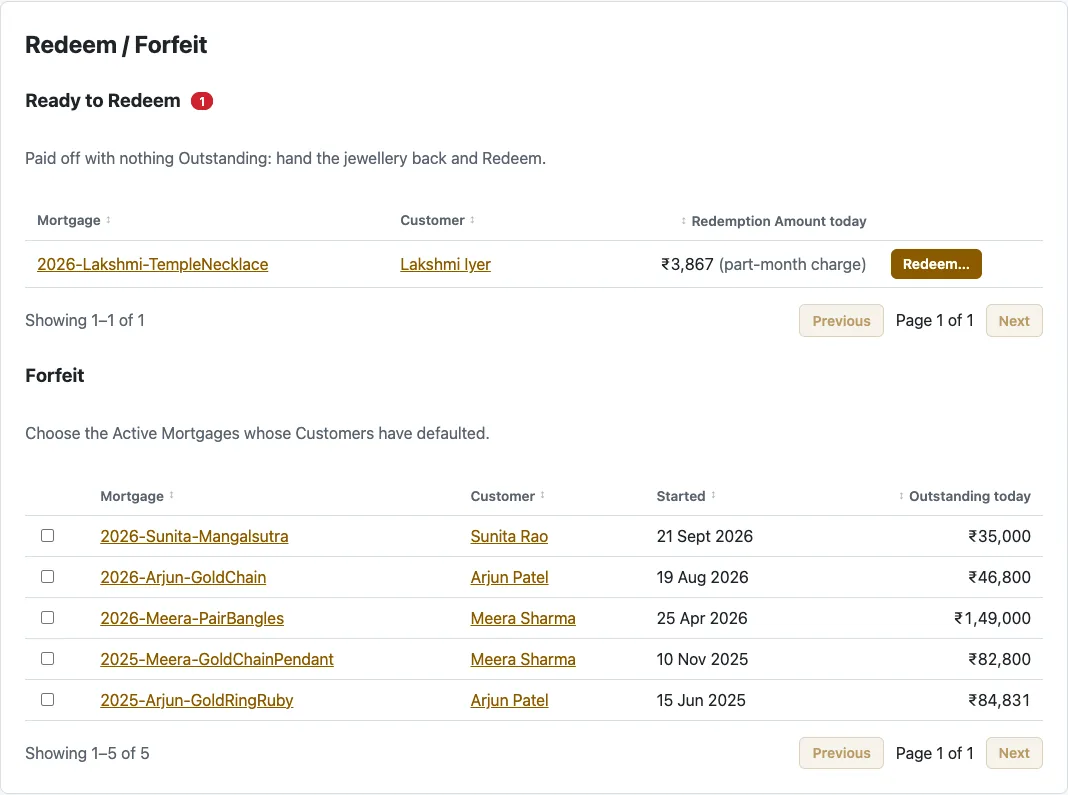
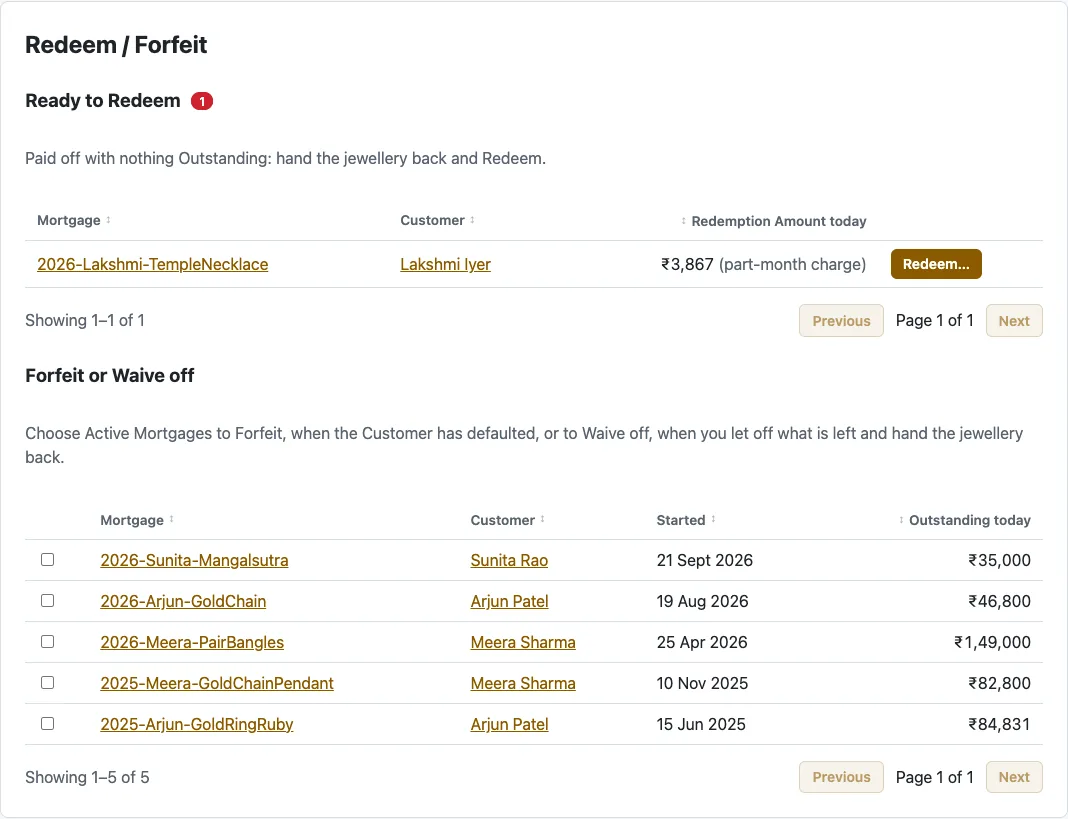
GitHub Pages: fresh screenshots for Waive off
The Gold Chain Story's sample book, rebuilt with the day pinned to 19 Oct 2026 and one
new Customer, Farida Khan, whose nose ring is Waived off ₹180 short. New screenshots:
the Waive off panel, the Waived off closure, Waive off for the chosen on Redeem /
Forfeit, and the Dashboard's Closed in October. The Redeem / Forfeit scene is re-taken
for its new Forfeit or Waive off section; every other screenshot is unchanged.

diff --git a/docs/story.html b/docs/story.html
@@ -207,6 +207,7 @@ footer { margin-top: 3rem; font-size: 0.82rem; color: var(--muted); display: gri
     <div class="person"><b>Lakshmi Iyer</b><span>a temple necklace, paid in full this week</span></div>
     <div class="person"><b>Kavita Joshi</b><span>a gold coin, Redeemed on 5 October</span></div>
     <div class="person"><b>Imran Qureshi</b><span>a pair of earrings, Forfeited on 10 October</span></div>
+    <div class="person"><b>Farida Khan</b><span>a gold nose ring, ₹180 short, Waived off on 16 October</span></div>
     <div class="person"><b>Sunita Rao</b><span>a mangalsutra, accruing in two days</span></div>
   </div>
   <p class="sample">Everyone here is invented. The screenshots come from the app running on sample data, so every figure is what the app itself works out. Click a numbered marker or a step to see where it is on the screen; ← and → step through a scene.</p>
@@ -543,10 +544,10 @@ footer { margin-top: 3rem; font-size: 0.82rem; color: var(--muted); display: gri
 <section class="chapter" id="endings" aria-labelledby="endings-h">
   <div class="chapter-head"><div class="eyebrow">Chapter 8</div><h2 id="endings-h">How pledges end</h2></div>
   <div class="prose">
-    <p>Every pledge ends one of three ways. It is paid in full and the jewellery goes home (Redeemed). Or the Customer pays nearly all of it, the Lender lets off the small balance left, and the jewellery goes home all the same (Waived off). Or the Customer defaults and the Lender keeps or sells it (Forfeited). This month has one Redemption and one Forfeiture, and one more waiting.</p>
+    <p>Every pledge ends one of three ways. It is paid in full and the jewellery goes home (Redeemed). Or the Customer pays nearly all of it, the Lender lets off the small balance left, and the jewellery goes home all the same (Waived off). Or the Customer defaults and the Lender keeps or sells it (Forfeited). This month has one of each, and one more waiting.</p>
   </div>
   <figure class="scene" data-shot="closures">
-    <div class="frame"><div class="canvas"><img src="shots/closures.webp" width="1068" height="795" alt="Redeem / Forfeit: Lakshmi's temple necklace Ready to Redeem with a ₹3,867 part-month charge; Active Mortgages that can be Forfeited." loading="lazy"></div></div>
+    <div class="frame"><div class="canvas"><img src="shots/closures.webp" width="1068" height="819" alt="Redeem / Forfeit: Lakshmi's temple necklace Ready to Redeem with a ₹3,867 part-month charge; Active Mortgages that can be Forfeited or Waived off." loading="lazy"></div></div>
     <div class="beats-wrap">
       <ol class="beats">
         <li data-spot="ready"><button class="beat"><span><b>Lakshmi paid in full this week.</b> Her necklace waits to go back; Redeeming today adds a ₹3,867 part-month charge as the final Payment. Below, Mortgages still owing can be ticked and closed together, choosing to Forfeit them or Waive them off.</span></button></li>
@@ -564,8 +565,16 @@ footer { margin-top: 3rem; font-size: 0.82rem; color: var(--muted); display: gri
     </div>
   </figure>
   <div class="duo">
+    <figure class="still"><img src="shots/waive.webp" width="1018" height="1497" alt="Waiving off Farida's nose ring on 16 Oct 2026: Redemption Amount ₹30,680, ₹30,500 received, ₹180 waived off, with the reason and the Preview." loading="lazy"><figcaption>Farida pays every month and comes in ₹180 short. On her Mortgage, <b>Waive off…</b> takes the ₹30,500 she brought as the final Payment and shows the ₹180 let off as it is typed, then the Preview. Paying the whole ₹30,680 would be refused here: that is a Redemption.</figcaption></figure>
+    <figure class="still"><img src="shots/closures-waive.webp" width="1068" height="928" alt="Redeem / Forfeit: one Mortgage ticked under Forfeit or Waive off, with Waive off chosen, ₹46,500 received of ₹46,800 and ₹300 waived off." loading="lazy"><figcaption>Several at once: on Redeem / Forfeit, tick Mortgages and choose <b>Waive off</b> instead of Forfeit, with what each brought in. (Shown here, not saved.)</figcaption></figure>
+  </div>
+  <div class="duo">
     <figure class="still"><img src="shots/redeemed.webp" width="1018" height="108" alt="Kavita's gold coin, Redeemed on 5 Oct 2026 for ₹54,567, with a link to the final Payment's Receipt." loading="lazy"><figcaption>Kavita's coin: Redeemed on 5 October for ₹54,567, with the final Payment's Receipt.</figcaption></figure>
     <figure class="still"><img src="shots/forfeited.webp" width="1018" height="246" alt="Imran's earrings, Forfeited on 10 Oct 2026: Redemption Amount ₹62,800, recovered ₹52,000, a loss of ₹10,800." loading="lazy"><figcaption>Imran's earrings: Forfeited on 10 October. Owed ₹62,800, sold for ₹52,000: a loss of ₹10,800, which the Dashboard counts for the month.</figcaption></figure>
+  </div>
+  <div class="duo">
+    <figure class="still"><img src="shots/waived.webp" width="1018" height="197" alt="Farida's nose ring, Waived off on 16 Oct 2026: Redemption Amount ₹30,680, final Payment ₹30,500, ₹180 waived off, and the reason." loading="lazy"><figcaption>Farida's nose ring: Waived off on 16 October. ₹30,500 paid, ₹180 let off, and the jewellery went home. Her Receipt shows nothing still owed.</figcaption></figure>
+    <figure class="still"><img src="shots/dashboard-closed.webp" width="1018" height="165" alt="Dashboard, Closed in Oct 2026: 1 Redeemed; 1 Waived off, ₹180 let off; 1 Forfeited, a loss of ₹10,800." loading="lazy"><figcaption>The Dashboard's month: one Redeemed, one Waived off with the ₹180 let off, and one Forfeited at a loss of ₹10,800. Each tile opens those Mortgages.</figcaption></figure>
   </div>
   <div class="rules">
     <div class="rule"><b>Waive off a small balance</b><span>On a Mortgage, Waive off takes what the Customer pays now as the final Payment (or nothing) and lets off the rest. Their Receipt shows nothing still owed, and the Dashboard counts what was let off for the month.</span></div>
@@ -609,7 +618,7 @@ footer { margin-top: 3rem; font-size: 0.82rem; color: var(--muted); display: gri
 </main>
 
 <script>
-const SPOTS = {"dashboard":{"w":1280,"h":860,"b":{"owed":[0.1023,0.2274,0.7953,0.0883],"ltv":[0.5062,0.7082,0.3914,0.1437],"follow":[0.1023,0.9176,0.3914,0.1437],"dot":[0.7229,0.0172,0.0063,0.0093],"theme":[0.955,0.014,0.0262,0.0391]}},"dashboard-ahead":{"w":1018,"h":331,"b":{}},"dashboard-chart":{"w":1018,"h":444,"b":{}},"settings-terms":{"w":1068,"h":461,"b":{"rate":[0.0234,0.37,0.9532,0.0912]}},"settings-gold":{"w":1068,"h":554,"b":{"g22":[0.1864,0.4424,0.1837,0.0758],"updated":[0.7032,0.3206,0.2734,0.1065]}},"settings-calls":{"w":1068,"h":293,"b":{}},"settings-messages":{"w":1068,"h":1116,"b":{"template":[0.0234,0.16,0.4691,0.2312],"preview":[0.5075,0.1335,0.4691,0.1998],"approve":[0.5075,0.8633,0.4691,0.0215]}},"settings-backups":{"w":1068,"h":365,"b":{"last":[0.0234,0.4291,0.9532,0.0657]}},"customers":{"w":1068,"h":692,"b":{"filter":[0.0234,0.1171,0.9532,0.0607],"active":[0.0234,0.2009,0.9532,0.0347],"sort":[0.1087,0.2702,0.0455,0.0295],"new":[0.8341,0.0361,0.1425,0.0578]}},"customer-new":{"w":828,"h":669,"b":{"phone":[0.3249,0.4928,0.6449,0.0628],"referrer":[0.0326,0.7548,0.9348,0.1211],"warning":[0.3249,0.564,0.6449,0.0359]}},"customer":{"w":828,"h":947,"b":{"photo":[0.0302,0.1655,0.2657,0.2322],"shared":[0.0302,0.1233,0.9396,0.0253],"referrer":[0.5006,0.2331,0.4692,0.0253],"mortgages":[0.0302,0.4062,0.1171,0.0296],"history":[0.0302,0.6951,0.9396,0.0296]}},"referrer":{"w":828,"h":242,"b":{}},"mortgage-new":{"w":1068,"h":1278,"b":{"active":[0.0234,0.1166,0.9532,0.022],"name":[0.0234,0.5468,0.9532,0.0329],"terms":[0.0412,0.6697,0.9176,0.0329],"photos":[0.0412,0.8905,0.143,0.0329]}},"mortgage-new-confirm":{"w":520,"h":766,"b":{}},"mortgage":{"w":1280,"h":860,"b":{"tiles":[0.1023,0.1949,0.7953,0.1112],"pay":[0.7836,0.1376,0.1141,0.0356],"edit":[0.7333,0.1364,0.0409,0.0379]}},"mortgage-collateral":{"w":1018,"h":105,"b":{}},"mortgage-ledger":{"w":1018,"h":365,"b":{}},"mortgage-projection":{"w":1018,"h":1061,"b":{"whatif":[0,0.0279,0.22,0.0396]}},"mortgage-history":{"w":1018,"h":139,"b":{}},"mortgage-terms":{"w":1018,"h":153,"b":{"coming":[0.5816,0.5208,0.0588,0.1214]}},"mortgage-photos":{"w":1018,"h":205,"b":{}},"edit-preview":{"w":1068,"h":2301,"b":{"principal":[0.5075,0.1157,0.4691,0.0183],"owed":[0.0234,0.251,0.471,0.053],"ledger":[0.0234,0.5735,0.2953,0.016]}},"terms-preview":{"w":1068,"h":1493,"b":{"from":[0.0234,0.1197,0.9532,0.0255],"owed":[0.0234,0.4097,0.471,0.0817]}},"payment-new":{"w":1068,"h":1771,"b":{"amount":[0.3461,0.0876,0.3077,0.0237],"modes":[0.0412,0.1778,0.1608,0.0136],"split":[0.0412,0.2004,0.9176,0.0674],"preview":[0.0234,0.3811,0.9532,0.0159]}},"payment-refused":{"w":1018,"h":705,"b":{"refusal":[0,0.8639,1,0.034],"save":[0,0.9433,0.2623,0.0567]}},"payment":{"w":1068,"h":940,"b":{"alloc":[0.0234,0.282,0.9532,0.127],"receipt":[0.0234,0.4814,0.9532,0.492],"void":[0.9126,0.0284,0.064,0.0347]}},"receipt":{"w":1068,"h":545,"b":{}},"payment-void":{"w":900,"h":774,"b":{}},"payments":{"w":1068,"h":1413,"b":{"voided":[0.85,0.2721,0.0524,0.0153]}},"notices":{"w":1068,"h":374,"b":{"tabs":[0.0234,0.4631,0.1008,0.0642],"row":[0.0234,0.6689,0.9532,0.1328]}},"notice":{"w":640,"h":432,"b":{"approve":[0.799,0.8473,0.1619,0.0926]}},"notices-send":{"w":1068,"h":374,"b":{"send":[0.8281,0.6943,0.074,0.0819]}},"call-list":{"w":1068,"h":482,"b":{"customer":[0.0234,0.5389,0.2397,0.3075],"count":[0.0346,0.6268,0.0861,0.0373],"reach":[0.0346,0.6836,0.2168,0.0676],"why":[0.5127,0.5661,0.0511,0.0463],"legend":[0.6176,0.3406,0.359,0.0529],"called":[0.8065,0.6562,0.1588,0.1725],"mark":[0.8065,0.5575,0.1072,0.0634],"chat":[0.1498,0.6836,0.0281,0.0676]}},"mortgages-customer":{"w":1068,"h":454,"b":{"note":[0.0234,0.3017,0.9532,0.0718]}},"closures":{"w":1068,"h":794,"b":{"ready":[0.0346,0.3203,0.2165,0.0227]}},"redeem":{"w":1018,"h":1250,"b":{"date":[0.0167,0.0761,0.9666,0.0352],"amount":[0.0167,0.211,0.1729,0.0192]}},"forfeited":{"w":1018,"h":245,"b":{}},"redeemed":{"w":1018,"h":107,"b":{}},"paid-off":{"w":640,"h":249,"b":{}}}
+const SPOTS = {"dashboard":{"w":1280,"h":860,"b":{"owed":[0.1023,0.2274,0.7953,0.0883],"ltv":[0.5062,0.7082,0.3914,0.1437],"follow":[0.1023,0.9176,0.3914,0.1437],"dot":[0.7229,0.0172,0.0063,0.0093],"theme":[0.955,0.014,0.0262,0.0391]}},"dashboard-ahead":{"w":1018,"h":331,"b":{}},"dashboard-chart":{"w":1018,"h":444,"b":{}},"settings-terms":{"w":1068,"h":461,"b":{"rate":[0.0234,0.37,0.9532,0.0912]}},"settings-gold":{"w":1068,"h":554,"b":{"g22":[0.1864,0.4424,0.1837,0.0758],"updated":[0.7032,0.3206,0.2734,0.1065]}},"settings-calls":{"w":1068,"h":293,"b":{}},"settings-messages":{"w":1068,"h":1116,"b":{"template":[0.0234,0.16,0.4691,0.2312],"preview":[0.5075,0.1335,0.4691,0.1998],"approve":[0.5075,0.8633,0.4691,0.0215]}},"settings-backups":{"w":1068,"h":365,"b":{"last":[0.0234,0.4291,0.9532,0.0657]}},"customers":{"w":1068,"h":692,"b":{"filter":[0.0234,0.1171,0.9532,0.0607],"active":[0.0234,0.2009,0.9532,0.0347],"sort":[0.1087,0.2702,0.0455,0.0295],"new":[0.8341,0.0361,0.1425,0.0578]}},"customer-new":{"w":828,"h":669,"b":{"phone":[0.3249,0.4928,0.6449,0.0628],"referrer":[0.0326,0.7548,0.9348,0.1211],"warning":[0.3249,0.564,0.6449,0.0359]}},"customer":{"w":828,"h":947,"b":{"photo":[0.0302,0.1655,0.2657,0.2322],"shared":[0.0302,0.1233,0.9396,0.0253],"referrer":[0.5006,0.2331,0.4692,0.0253],"mortgages":[0.0302,0.4062,0.1171,0.0296],"history":[0.0302,0.6951,0.9396,0.0296]}},"referrer":{"w":828,"h":242,"b":{}},"mortgage-new":{"w":1068,"h":1278,"b":{"active":[0.0234,0.1166,0.9532,0.022],"name":[0.0234,0.5468,0.9532,0.0329],"terms":[0.0412,0.6697,0.9176,0.0329],"photos":[0.0412,0.8905,0.143,0.0329]}},"mortgage-new-confirm":{"w":520,"h":766,"b":{}},"mortgage":{"w":1280,"h":860,"b":{"tiles":[0.1023,0.1949,0.7953,0.1112],"pay":[0.7836,0.1376,0.1141,0.0356],"edit":[0.7333,0.1364,0.0409,0.0379]}},"mortgage-collateral":{"w":1018,"h":105,"b":{}},"mortgage-ledger":{"w":1018,"h":365,"b":{}},"mortgage-projection":{"w":1018,"h":1061,"b":{"whatif":[0,0.0279,0.22,0.0396]}},"mortgage-history":{"w":1018,"h":139,"b":{}},"mortgage-terms":{"w":1018,"h":153,"b":{"coming":[0.5816,0.5208,0.0588,0.1214]}},"mortgage-photos":{"w":1018,"h":205,"b":{}},"edit-preview":{"w":1068,"h":2301,"b":{"principal":[0.5075,0.1157,0.4691,0.0183],"owed":[0.0234,0.251,0.471,0.053],"ledger":[0.0234,0.5735,0.2953,0.016]}},"terms-preview":{"w":1068,"h":1493,"b":{"from":[0.0234,0.1197,0.9532,0.0255],"owed":[0.0234,0.4097,0.471,0.0817]}},"payment-new":{"w":1068,"h":1771,"b":{"amount":[0.3461,0.0876,0.3077,0.0237],"modes":[0.0412,0.1778,0.1608,0.0136],"split":[0.0412,0.2004,0.9176,0.0674],"preview":[0.0234,0.3811,0.9532,0.0159]}},"payment-refused":{"w":1018,"h":705,"b":{"refusal":[0,0.8639,1,0.034],"save":[0,0.9433,0.2623,0.0567]}},"payment":{"w":1068,"h":940,"b":{"alloc":[0.0234,0.282,0.9532,0.127],"receipt":[0.0234,0.4814,0.9532,0.492],"void":[0.9126,0.0284,0.064,0.0347]}},"receipt":{"w":1068,"h":545,"b":{}},"payment-void":{"w":900,"h":774,"b":{}},"payments":{"w":1068,"h":1413,"b":{"voided":[0.85,0.2721,0.0524,0.0153]}},"notices":{"w":1068,"h":374,"b":{"tabs":[0.0234,0.4631,0.1008,0.0642],"row":[0.0234,0.6689,0.9532,0.1328]}},"notice":{"w":640,"h":432,"b":{"approve":[0.799,0.8473,0.1619,0.0926]}},"notices-send":{"w":1068,"h":374,"b":{"send":[0.8281,0.6943,0.074,0.0819]}},"call-list":{"w":1068,"h":482,"b":{"customer":[0.0234,0.5389,0.2397,0.3075],"count":[0.0346,0.6268,0.0861,0.0373],"reach":[0.0346,0.6836,0.2168,0.0676],"why":[0.5127,0.5661,0.0511,0.0463],"legend":[0.6176,0.3406,0.359,0.0529],"called":[0.8065,0.6562,0.1588,0.1725],"mark":[0.8065,0.5575,0.1072,0.0634],"chat":[0.1498,0.6836,0.0281,0.0676]}},"mortgages-customer":{"w":1068,"h":454,"b":{"note":[0.0234,0.3017,0.9532,0.0718]}},"closures":{"w":1068,"h":819,"b":{"ready":[0.0346,0.3109,0.2165,0.022]}},"redeem":{"w":1018,"h":1250,"b":{"date":[0.0167,0.0761,0.9666,0.0352],"amount":[0.0167,0.211,0.1729,0.0192]}},"forfeited":{"w":1018,"h":245,"b":{}},"redeemed":{"w":1018,"h":107,"b":{}},"paid-off":{"w":640,"h":249,"b":{}}}
 
 // Scenes: numbered markers on each screenshot, stepped through by click or ← →.
 for (const scene of document.querySelectorAll('figure.scene')) {
